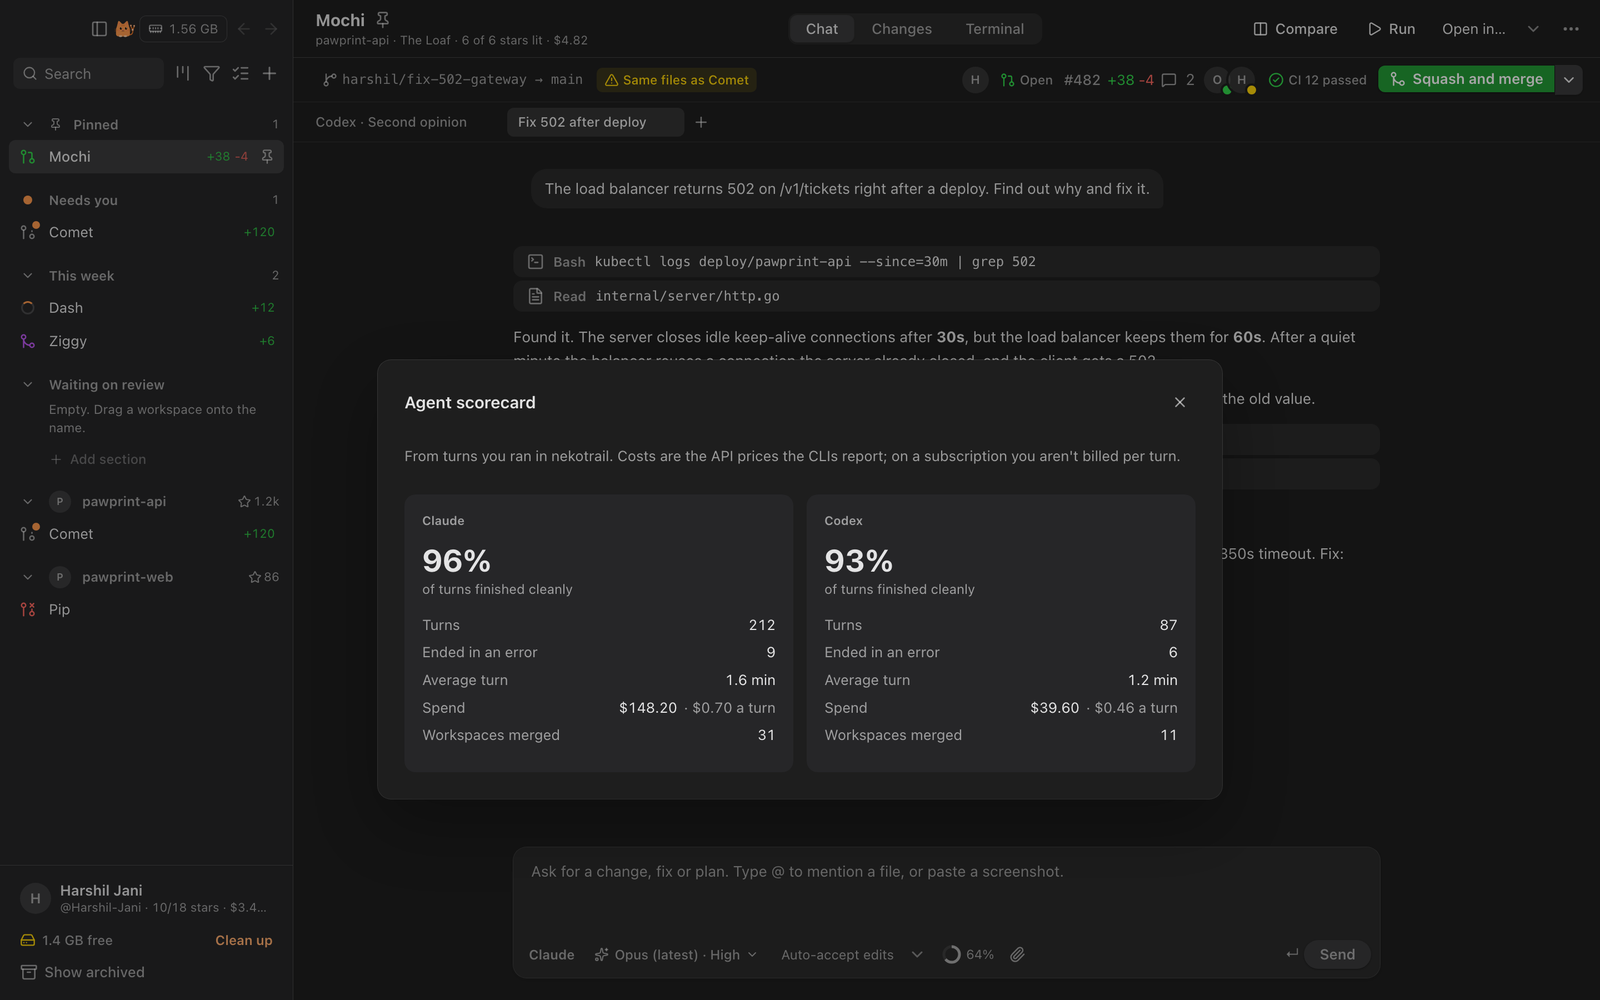
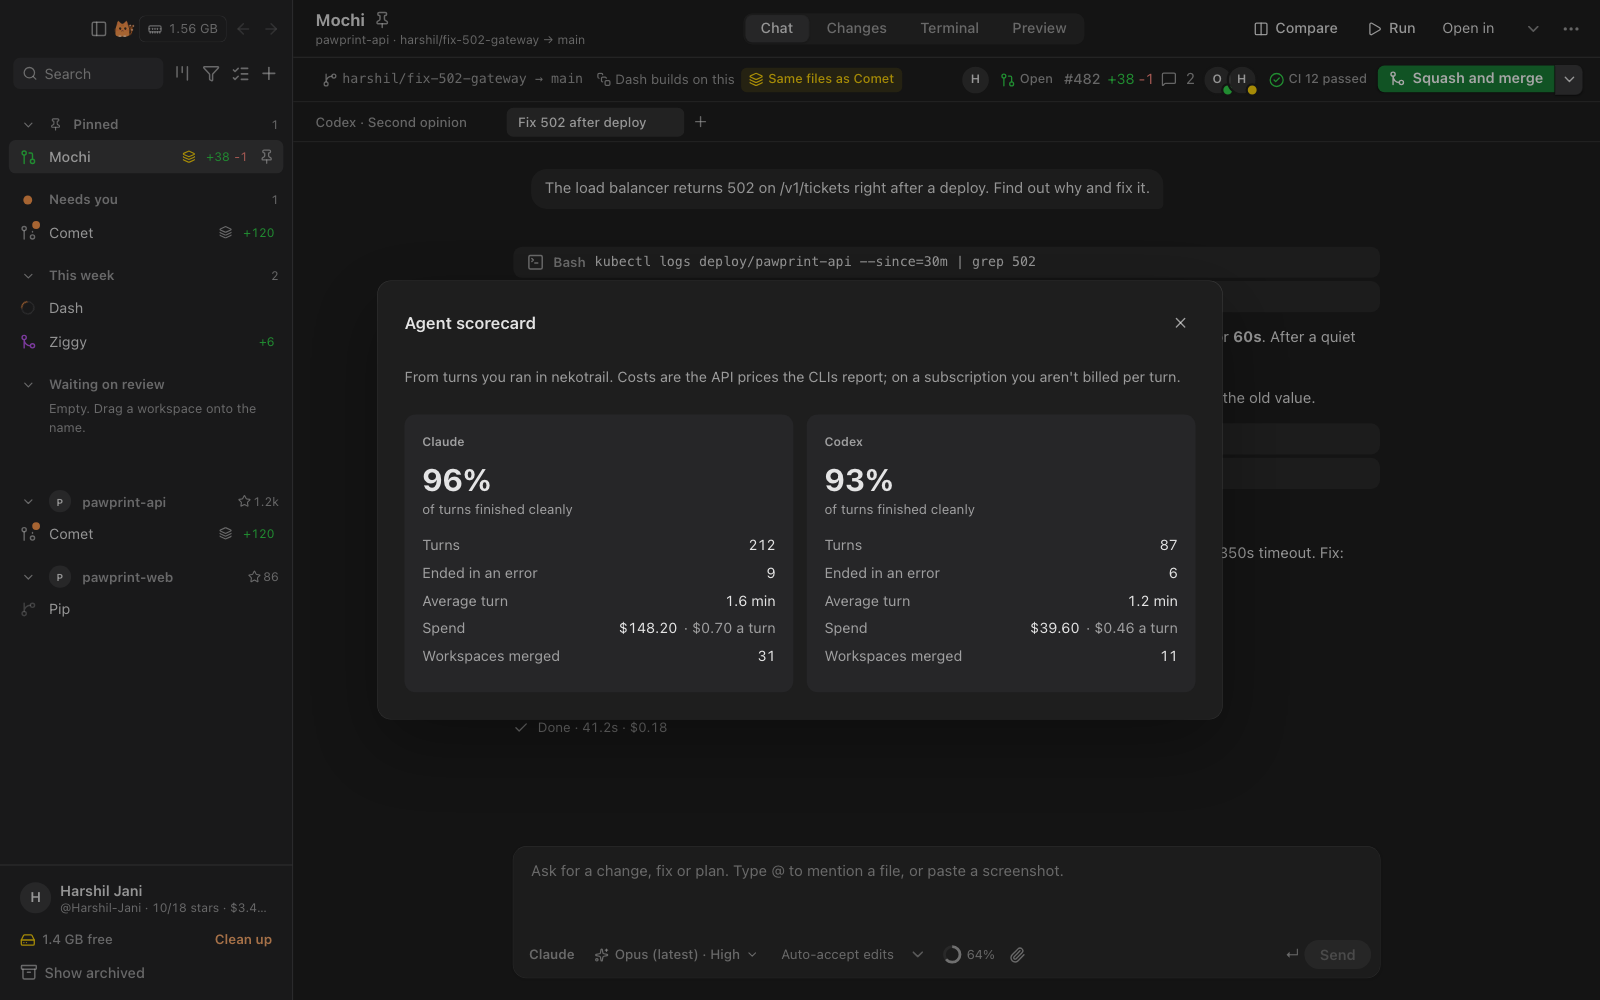
README: retake screenshot tour, add Preview, review, rewind, stacks and 4-agent picker

diff --git a/README.md b/README.md
@@ -18,25 +18,39 @@
 
 ---
 
-nekotrail is an open-source, local-first desktop app for running Claude Code and Codex in parallel. Every task gets a **workspace**: a git worktree on its own branch, a chat with the agent, a diff view, a real terminal, notes, and a PR bar with live GitHub status.
+nekotrail is an open-source, local-first desktop app for running Claude Code, Codex, Gemini CLI and OpenCode in parallel. Every task gets a **workspace**: a git worktree on its own branch, a chat with the agent, a diff view, a live preview of your app, a real terminal, notes, and a PR bar with live GitHub status.
+
+**Moving from Conductor?** nekotrail imports your repos, active workspaces and chats from a local Conductor install in one click, and Conductor's shortcuts still work. It only reads Conductor's data, and imported chats continue the same agent session.
 
 **The night sky.** Every workspace is named after a star in one of eight cat constellations. Starting a workspace lights its star; merging its PR makes it shine, and lines appear between neighbouring stars once both have shipped. Ship enough and a whole cat appears in your sky. One of them, Felis, is a real constellation: astronomer Jérôme Lalande drew a cat among the stars in 1799.
 
 ## Tour
 
-Screenshots use sample data from `preview.html`. Light and dark follow your Mac.
+Screenshots use sample data from `preview.html`. Light and dark follow your Mac, or pick one in Settings.
 
-**Start a workspace.** Type the task and press Enter. Pick Claude, Codex, or Both to race them. Start from an issue, an open PR or an existing branch.
-<img src="docs/screenshots/new-workspace.png" width="900" alt="New workspace panel with the task box, agent picker and sources">
+**Start a workspace.** Type the task and press Enter. Pick Claude, Codex, Gemini or OpenCode, or Claude + Codex to race them. Start from an issue, an open PR, an existing branch, or on top of another workspace.
+<img src="docs/screenshots/new-workspace.png" width="900" alt="New workspace panel with the task box, the Claude, Codex, Gemini, OpenCode and Claude + Codex picker, and sources">
 
 **Choose the model and how hard it thinks.** One picker for the model and its intelligence level (⌘/).
 <img src="docs/screenshots/model-picker.png" width="900" alt="Model and intelligence picker in the chat box">
 
-**Approve the plan, or split it.** Approve with one click (⌘⇧↵), or split a numbered plan into parallel workspaces. In "Ask before changes" mode, every edit and command waits for your Allow (↵) or Deny (⌫).
-<img src="docs/screenshots/plan.png" width="900" alt="Plan card with Approve and build, a live todo list and queued messages">
+**Approve the plan, or split it.** Approve with one click (⌘⇧↵), or split a numbered plan into parallel workspaces.
+<img src="docs/screenshots/plan.png" width="900" alt="Plan card with Approve and build, Split into 3 workspaces, a todo list and queued messages">
 
-**Review the changes.** Line numbers, comments on any line, GitHub review comments inline, side by side.
-<img src="docs/screenshots/changes.png" width="900" alt="Changes tab with a diff, a review comment and GitHub comments">
+**Or approve each change.** In "Ask before changes" mode, every edit and command waits for your Allow (↵), Deny (⌫) or Allow for this chat. Here it's OpenCode, which nekotrail drives over the Agent Client Protocol.
+<img src="docs/screenshots/opencode.png" width="900" alt="An OpenCode chat in Ask before changes mode, waiting on an edit with Deny, Allow for this chat and Allow">
+
+**Review the agent like a pull request.** Click a line number (shift-click or drag for more lines) to comment. Send review hands every comment to the agent in one message, with the file, line and code. Comments on lines the agent has since changed are marked Outdated. GitHub review comments show inline too.
+<img src="docs/screenshots/changes.png" width="900" alt="Changes tab with draft review comments on lines, an Outdated comment, GitHub comments inline and the Send review button">
+
+**Rewind to here.** Every message you send saves your files first. Rewind puts them back, says how many files change before it does anything, and can be undone. `.env`, `node_modules` and other ignored files are never touched.
+<img src="docs/screenshots/rewind.png" width="900" alt="Rewind sheet: 2 files go back to how they were before the message, 1 commit comes off the branch">
+
+**See your app, and mark it up.** The Preview tab (⌘4) shows your running app inside the workspace. Annotate freezes the page, lets you draw boxes and arrows and add a note, and drops it into your chat as a screenshot the agent can see. Preview only loads local addresses.
+<img src="docs/screenshots/preview.png" width="900" alt="Preview tab in Annotate mode with a box and an arrow drawn on a sample app and a note for the agent">
+
+**Stack work on work.** Start a workspace on top of another one: its PR builds on the unmerged branch, and the PR bar links the parent. When the parent merges, one click moves it onto main, rebases it and points its PR there.
+<img src="docs/screenshots/stacked.png" width="900" alt="PR bar of a stacked workspace showing On Mochi #482 merged, with a Move onto main banner">
 
 **See everything on a board.** Backlog, In progress, In review, Done. Drag to change status (⌘⇧K).
 <img src="docs/screenshots/board.png" width="900" alt="Kanban board of workspaces">
@@ -53,8 +67,8 @@ Screenshots use sample data from `preview.html`. Light and dark follow your Mac.
 **Do anything from the keyboard.** ⌘K jumps to any workspace or action.
 <img src="docs/screenshots/palette.png" width="900" alt="Command palette">
 
-**Check your MCP servers.** Type `/mcp` in any chat.
-<img src="docs/screenshots/mcp.png" width="900" alt="MCP servers sheet with connection status">
+**Check your MCP servers.** Type `/mcp` in any chat. Copying a server or skill from one agent to another, as shown here, is in the next release (see the [changelog](CHANGELOG.md)).
+<img src="docs/screenshots/mcp.png" width="900" alt="MCP servers and skills sheet with connection status and which agents have each one">
 
 **Light up the night sky.** Every workspace lights a star; every merged PR makes it shine.
 <img src="docs/screenshots/night-sky.png" width="900" alt="Night sky with constellations">
@@ -65,7 +79,7 @@ Screenshots use sample data from `preview.html`. Light and dark follow your Mac.
 ## Why
 
 - **Open source and local.** MIT licensed. It runs on your machine and talks only to the tools you already use. It can't be shut down or acquired away.
-- **Bring your own agent.** It drives the official `claude`, `codex`, `gemini` and `opencode` CLIs with your own logins, settings and subscriptions. OpenCode runs over the Agent Client Protocol, so more ACP agents are a small addition.
+- **Bring any agent.** It drives Claude Code, Codex, Gemini CLI and OpenCode through their official `claude`, `codex`, `gemini` and `opencode` CLIs, with your own logins, settings and subscriptions. OpenCode runs over the Agent Client Protocol (ACP), so more ACP agents are one registry entry.
 - **One click from Conductor.** It imports your repos, active workspaces and chats from a local Conductor install. It only reads Conductor's data and moves nothing, and imported chats continue the same agent session.
 
 ## What it does
@@ -74,15 +88,18 @@ Screenshots use sample data from `preview.html`. Light and dark follow your Mac.
 |---|---|
 | Start | Open a local repo, clone one of your GitHub repos, or import from Conductor (it shows what it will bring over first). Start a workspace from a task, a GitHub issue, an open PR or a branch. |
 | Workspaces | One git worktree and branch per task, named after the task. Archive removes the folder and keeps the branch; restore brings it back. |
-| Chat | Claude Code or Codex, several chats per workspace. Queue messages while the agent works, stop a turn, and pick plan / auto-accept / full-auto. Type `@` to mention a file; paste a screenshot to attach it. |
-| Bake-off | Pick "Both" and Claude and Codex each get the same task in their own workspace. Compare files, turns, time and cost side by side, keep the better one. |
+| Chat | Claude Code, Codex, Gemini CLI or OpenCode, several chats per workspace. Queue messages while the agent works, stop a turn, and pick plan / auto-accept / full-auto. Type `@` to mention a file; paste a screenshot to attach it. |
+| Bake-off | Pick "Claude + Codex" and each gets the same task in its own workspace. Compare files, turns, time and cost side by side, keep the better one. |
 | Second opinion | One click asks the other agent to review the branch read-only. Its `file:line` findings become review comments in Changes, ready to send back. |
-| Checkpoints | Every message snapshots the workspace first. Hover a message and click **Rewind files to here** to undo everything the agent did from that point, commits included. |
-| Changes | Everything the agent changed versus the target branch, including uncommitted and new files, with line numbers. Comment on any line and send all your comments to the agent as one review. |
+| Checkpoints | Every message you send saves your files first. Hover it and click **Rewind to here** to put them back, including untracked and staged files. It tells you how many files change first, and Undo brings the newer state back. Each workspace keeps its last 50. |
+| Changes | Everything the agent changed versus the target branch, including uncommitted and new files, with line numbers. Comment on any line or range and send all your comments to the agent as one review; comments on lines it has since changed are marked Outdated. Discard one file (the old copy goes to the Trash) and filter long file lists. |
+| Preview | Your running app inside the workspace (⌘4), localhost only. Annotate draws boxes, arrows and a note on a frozen page and attaches it to the chat. Nothing running? Start the Run script from Preview. |
+| Stacks | Start a workspace on top of another. The PR bar links the parent, and when the parent merges, one click moves it onto main and retargets its PR. The sidebar marks workspaces that change the same files and suggests which to merge first. |
 | Terminal | A real login shell in the workspace folder. |
 | PRs | One button for the next step: the agent opens the PR, fixes failing checks from their logs, or resolves conflicts; then squash and merge. Also commit and push, pull latest, agent review, and GitHub review comments shown in the diff. Start a workspace from any open PR. |
 | Scripts | Setup, run and archive scripts per repo, each in its own terminal tab. Commit a `nekotrail.json` to share them with your team. Every workspace gets its own ports (`NEKOTRAIL_PORT` and the next 9). |
 | Repo settings | Instructions for every chat, review and PR prompts, `.env` files copied into new workspaces, environment variables. |
+| Appearance | Light, Dark or Follow system, zoom from 80% to 150%, and your choice of monospace font and size for code and the terminal. |
 | GitHub | Your avatar and name, repo owner avatars and stars, PR authors and reviewers, all through your `gh` login. |
 | Night sky | 50 stars in 8 cat constellations. Workspaces light stars, merged PRs make them shine and draw the lines. |
 
@@ -104,7 +121,7 @@ Download the `.dmg` from the [latest release](https://github.com/Harshil-Jani/ne
 
 **Updates.** nekotrail checks for a new release on launch and every 6 hours, and offers to update itself (⌘K → Check for updates, or Settings). It waits for your agents before restarting. If you're on 0.10.1 or earlier, install the next release from the download link once by hand: those versions can't update themselves yet.
 
-nekotrail checks your setup on first launch and gives you the exact command for anything missing. Requirements: macOS, [`git`](https://git-scm.com), [`gh`](https://cli.github.com) signed in, and at least one of [`claude`](https://docs.anthropic.com/claude-code) or [`codex`](https://github.com/openai/codex).
+nekotrail checks your setup on first launch and gives you the exact command for anything missing. Requirements: macOS, [`git`](https://git-scm.com), [`gh`](https://cli.github.com) signed in, and at least one of [`claude`](https://docs.anthropic.com/claude-code), [`codex`](https://github.com/openai/codex), [`gemini`](https://github.com/google-gemini/gemini-cli) or [`opencode`](https://opencode.ai).
 
 To build it yourself:
 
@@ -128,7 +145,7 @@ Conductor's shortcuts still work, so muscle memory carries over. The full list i
 | ⌘N / ⌘⇧N | New workspace / from a pull request or branch |
 | ⌃1 to ⌃9, ⌘⌥↑ / ⌘⌥↓ | Switch workspace |
 | ⌘⌥L | Next workspace with news |
-| ⌘1 / ⌘2 / ⌘3 | Chat / Changes / Terminal (⌘L, ⌘⇧D and ⌘J also work) |
+| ⌘1 / ⌘2 / ⌘3 / ⌘4 | Chat / Changes / Terminal / Preview (⌘L, ⌘⇧D and ⌘J also work) |
 | ⌘⇧P / ⌘⇧Y / ⌘⇧M | Create PR / commit and push / merge |
 | ⌘⇧R / ⌘⇧X / ⌘⇧L | Agent review / fix failing checks / pull latest |
 | ⌘R / ⌘⇧B | Run or stop the app / open localhost |
@@ -148,10 +165,12 @@ again whenever they change. An archive command you never approved is skipped.
 
 The same goes for agent config a repo commits that would run commands as soon as a chat starts: hooks,
 `apiKeyHelper` and `env` in `.claude/settings.json`, servers in `.mcp.json`, and `mcp_servers`,
-`shell_environment_policy.set` and `.codex/rules` for Codex. Claude and Codex skip their own trust prompt
-when run headless, so nekotrail lists what would run before the first message. Until you trust it, agents
-run with that repo config off (`claude --setting-sources user`, and Codex with the folder marked
-untrusted), while your own settings and MCP servers stay on.
+`shell_environment_policy.set` and `.codex/rules` for Codex, hooks, MCP servers and risky `.env` variables for
+Gemini, and MCP servers, plugins, custom tools, formatters and `allow` permissions for OpenCode. Claude and
+Codex skip their own trust prompt when run headless, so nekotrail lists what would run before the first message.
+Until you trust it, Claude, Codex and OpenCode run with that repo config off (`claude --setting-sources user`,
+Codex with the folder marked untrusted), and Gemini asks before it runs, while your own settings and MCP
+servers stay on.
 
 ## Develop
 
@@ -166,8 +185,8 @@ Every batch of work ships as a numbered version. See [CHANGELOG.md](CHANGELOG.md
 
 ## Status
 
-Early (v0.2). Built and used daily on macOS. Feedback and PRs welcome.
+Early (0.12). Built and used daily on macOS. Feedback and PRs welcome.
 
 ## License
 
-MIT. nekotrail is an independent project and is not affiliated with Conductor, Anthropic or OpenAI.
+MIT. nekotrail is an independent project and is not affiliated with Conductor, Anthropic, OpenAI, Google or OpenCode.
